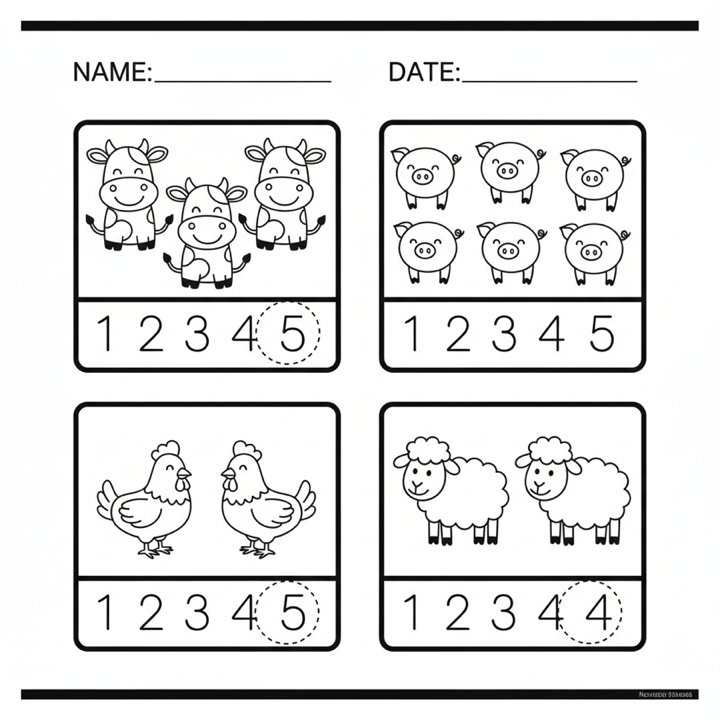
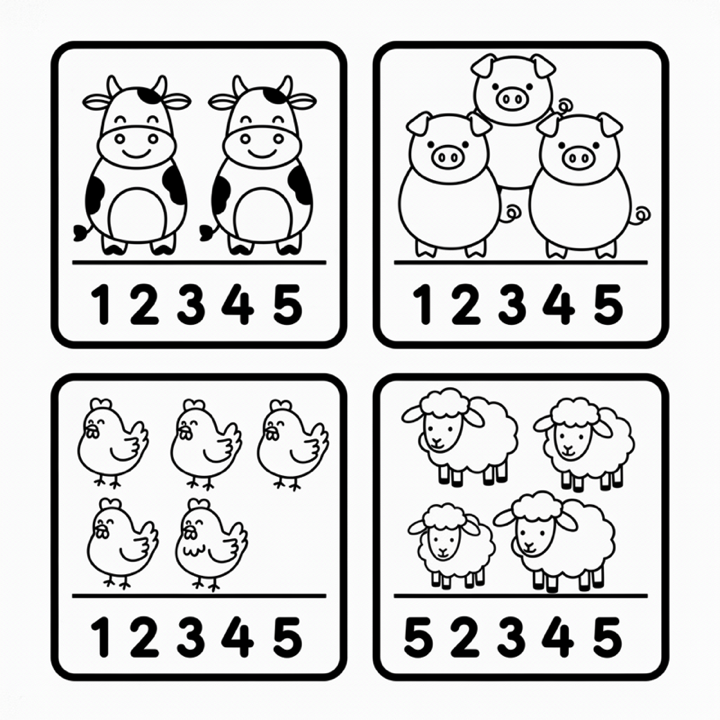
Refresh catalog samples and crop Name/Date out of preview cards.
New AI thumbnails without header clutter, zoomed card framing so parents see the fun art first.

diff --git a/components/home-page.tsx b/components/home-page.tsx
@@ -245,11 +245,12 @@ export default function HomePage() {
               <div
                 className={`${active.tint} relative overflow-hidden rounded-[1.5rem] p-3 transition-colors duration-300`}
               >
-                <div ref={previewImgRef} className="relative mx-auto aspect-[3/4] w-full max-w-[260px] overflow-hidden rounded-xl shadow-md ring-1 ring-black/5">
+                <div ref={previewImgRef} className="relative mx-auto aspect-[4/5] w-full max-w-[260px] overflow-hidden rounded-xl shadow-md ring-1 ring-black/5">
                   <SampleImage
                     src={active.preview}
                     fallback={active.fallbackPreview}
                     alt={active.sample}
+                    hideHeader
                     className="absolute inset-0"
                     priority
                   />
@@ -322,7 +323,7 @@ export default function HomePage() {
                 Four kinds of printables
               </h2>
               <p className="mt-2 max-w-lg text-[var(--ink-soft)]">
-                Each card shows a real page layout — so you know exactly what prints.
+                Real sample art on every card — peek at what kids will color, trace, and count.
               </p>
             </div>
             <Link
@@ -356,13 +357,18 @@ export default function HomePage() {
                   <span className="font-display text-xs font-bold text-[var(--ink)]/40">A4 PDF</span>
                 </div>
 
-                <div className="relative mx-auto mb-3 aspect-[3/4] w-full max-w-[180px] overflow-hidden rounded-2xl bg-white shadow-sm ring-1 ring-black/5">
-                  <SampleImage
-                    src={p.preview}
-                    fallback={p.fallbackPreview}
-                    alt={`${p.title} sample worksheet`}
-                    className="absolute inset-0 transition duration-300 group-hover:scale-[1.03]"
-                  />
+                <div className="relative mx-auto mb-3 aspect-[4/5] w-full max-w-[200px] overflow-hidden rounded-2xl bg-white shadow-[0_10px_28px_-14px_rgba(30,41,53,0.35)] ring-1 ring-black/8">
+                  <div className="absolute inset-[6px] overflow-hidden rounded-xl bg-[#FFFEFA]">
+                    <SampleImage
+                      src={p.preview}
+                      fallback={p.fallbackPreview}
+                      alt={`${p.title} sample worksheet`}
+                      hideHeader
+                      className="absolute inset-0 transition duration-500 group-hover:scale-[1.04]"
+                    />
+                  </div>
+                  {/* tiny paper corner fold cue */}
+                  <div className="pointer-events-none absolute right-2 top-2 h-5 w-5 rounded-bl-md bg-gradient-to-bl from-black/5 to-transparent" />
                 </div>
 
                 <h3 className={`font-display text-xl font-bold ${p.accent}`}>{p.title}</h3>

diff --git a/components/sample-image.tsx b/components/sample-image.tsx
@@ -11,28 +11,43 @@ export default function SampleImage({
   alt,
   className,
   priority,
+  /** Skip worksheet Name/Date band so the fun art fills the card */
+  hideHeader = true,
 }: {
   src: string;
   fallback?: string;
   alt: string;
   className?: string;
   priority?: boolean;
+  hideHeader?: boolean;
 }) {
   const [current, setCurrent] = useState(src);
 
   return (
-    <div className={cn("relative overflow-hidden bg-white", className)}>
+    <div className={cn("relative overflow-hidden bg-[#FFFEFA]", className)}>
+      {/* Soft paper edge */}
+      <div className="pointer-events-none absolute inset-0 z-[1] rounded-[inherit] ring-1 ring-inset ring-black/5" />
       <Image
         src={current}
         alt={alt}
         fill
         priority={priority}
-        className="object-cover object-top"
-        sizes="(max-width: 640px) 50vw, 280px"
+        className={cn(
+          "transition duration-500 ease-out",
+          hideHeader
+            ? // Push past Name/Date (~12–16% of page) and zoom so content fills frame
+              "object-cover object-[center_22%] scale-[1.28] origin-top"
+            : "object-cover object-top"
+        )}
+        sizes="(max-width: 640px) 55vw, 280px"
         onError={() => {
           if (fallback && current !== fallback) setCurrent(fallback);
         }}
       />
+      {/* Fade top edge so any leftover header feels intentional */}
+      {hideHeader && (
+        <div className="pointer-events-none absolute inset-x-0 top-0 z-[1] h-8 bg-gradient-to-b from-[#FFFEFA] to-transparent" />
+      )}
     </div>
   );
 }
